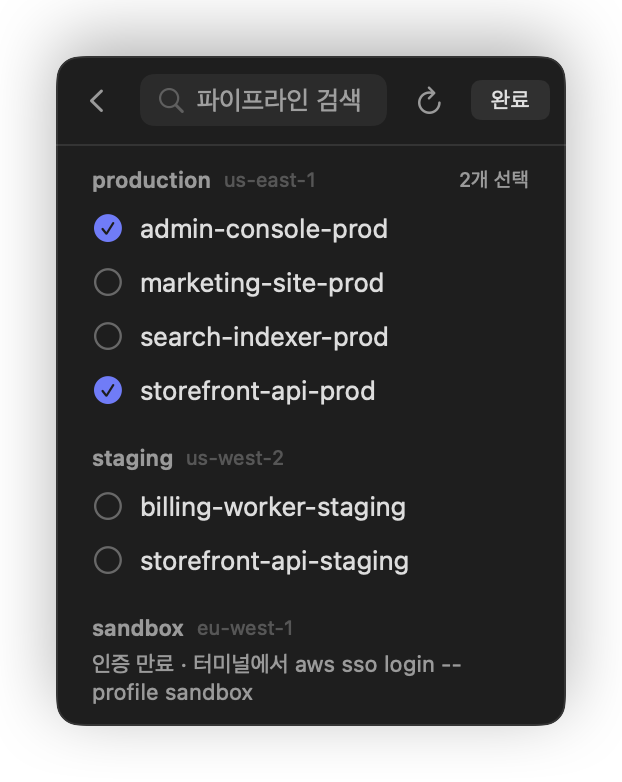
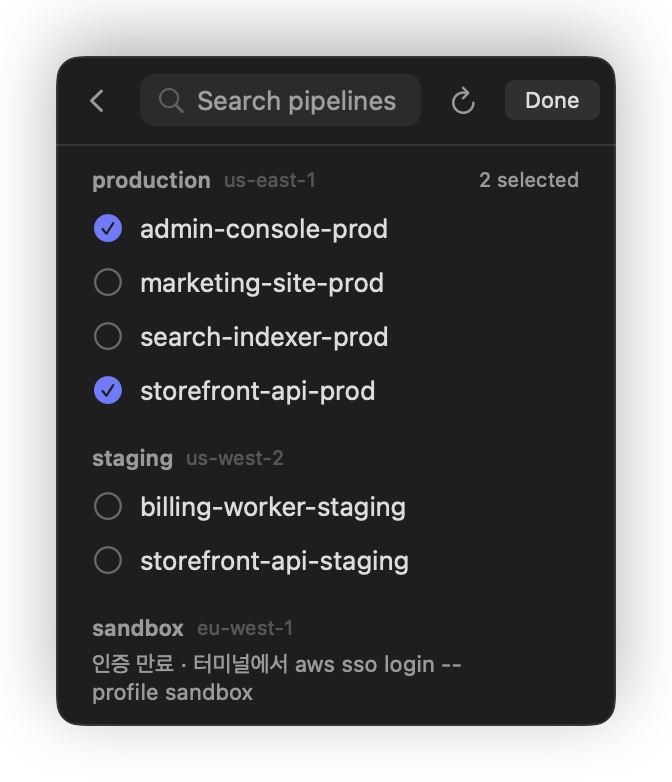
docs: 언어 설정 안내, 스크린샷을 영어로

diff --git a/README.md b/README.md
@@ -69,7 +69,7 @@ cd crowsnest
 
 ## Usage
 
-1. Click the anchor icon in the menu bar, then **파이프라인 고르기** (pick pipelines) or the `+` button.
+1. Click the anchor icon in the menu bar, then **Choose Pipelines** or the `+` button.
 2. Pipelines are grouped by profile. Search and tick the ones you want to watch.
 3. Click a row to expand every stage and action. Hover a row to reveal a button that opens it in the AWS console.
 
@@ -77,7 +77,7 @@ cd crowsnest
   <img src="docs/images/picker.png" width="320" alt="Pipeline picker grouped by AWS profile">
 </p>
 
-> The interface is currently in Korean.
+The interface is available in English and Korean (한국어). It follows your macOS language by default and can be changed in **Settings → General → Language**.
 
 ## Settings
 
@@ -88,8 +88,8 @@ Open **Settings** from the `···` menu in the panel header, or press ⌘, whil
   <img src="docs/images/settings-aws.png" width="400" alt="AWS settings: aws CLI path, default region and per-profile visibility and region">
 </p>
 
-- **일반 (General)** — launch at login, refresh interval while idle and while a deployment runs, slow down in Low Power Mode.
-- **알림 (Notifications)** — turn notifications on or off per event (finished, failed or stopped, approval needed, rejected) and toggle the sound.
+- **General** — language, open at login, refresh interval while idle and while a deployment runs, slow down in Low Power Mode.
+- **Notifications** — turn notifications on or off per event (succeeded, failed or stopped, approval needed, rejected) and toggle the sound.
 - **AWS** — the `aws` executable in use, default region, and for every profile whether to show it and which region to use.
 
 Everything is stored in `~/.config/crowsnest/config.json`, so you can also keep it in your dotfiles. Edits made to the file directly are picked up on the next launch.
@@ -106,15 +106,16 @@ Everything is stored in `~/.config/crowsnest/config.json`, so you can also keep 
 | `notificationsEnabled` | `true` | Master switch for notifications. |
 | `notifyOnSuccess` · `notifyOnFailure` · `notifyOnApprovalRequest` · `notifyOnRejection` | `true` | Per-event notifications. |
 | `notificationSound` | `true` | Play a sound with notifications. |
+| `language` | `"system"` | `"system"`, `"en"` or `"ko"`. |
 
 If every pipeline fails to load (offline, expired session), Crowsnest retries every 5 minutes until you press refresh.
 
 ## Troubleshooting
 
-**"인증 만료 · 터미널에서 aws sso login --profile …"** (session expired)
+**"Session expired · run aws sso login --profile …"**
 Run the suggested `aws sso login` command, then press refresh (↻) in the panel. Without refresh it retries within 5 minutes.
 
-**"aws CLI 를 못 찾음"** (aws CLI not found)
+**"aws CLI not found"**
 Install it with `brew install awscli`, or enter the output of `which aws` in **Settings → AWS**.
 
 **A profile shows no pipelines**

diff --git a/CLAUDE.md b/CLAUDE.md
@@ -32,4 +32,5 @@ log stream --info --predicate 'subsystem == "com.ldhbenecia.crowsnest"'
 - push 는 요청이 있을 때만
 - 주석은 코드로 알 수 없는 이유만 한두 줄, 음슴체
 - 변수 · 필드 이름은 축약하지 않음
+- 화면 · 알림 · 에러 문구는 `L("한국어", "English")` 로 둘 다 씀. 영어는 macOS 관례대로 버튼 · 메뉴는 Title Case. 로그는 한국어 그대로
 - 배터리: 폴링마다 프로세스를 띄우지 않음, 패널이 닫혀 있으면 애니메이션을 멈춤
